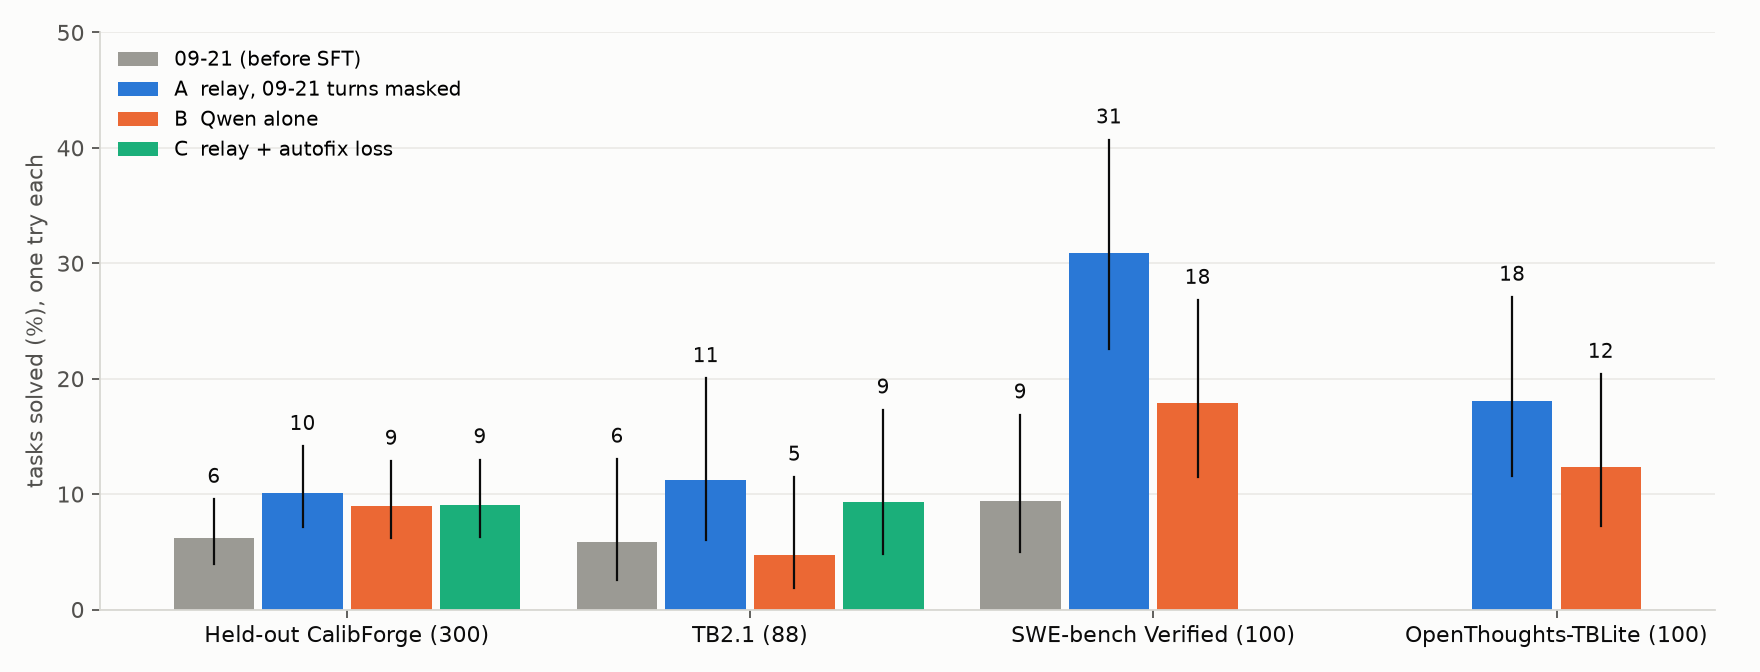
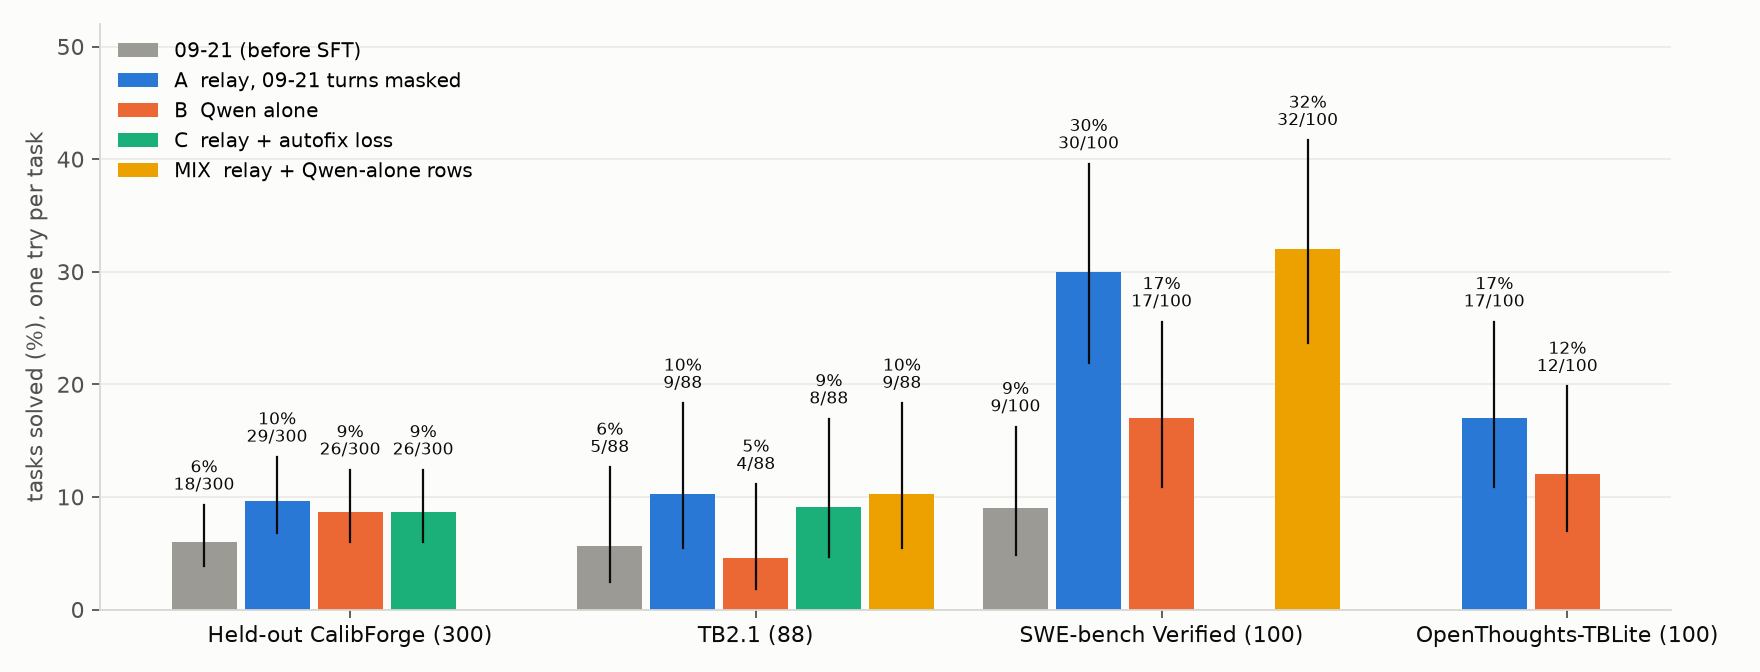
relay SFT gist: pass rates over all tasks (no verdict = fail), n/N labels on the figure

diff --git a/notes/artifacts/relay-sft-gist/make_figs.py b/notes/artifacts/relay-sft-gist/make_figs.py
@@ -5,9 +5,21 @@ sys.path.insert(0, '/e/project1/transfernetx/lee27/code/ota-sft-v2/data/relay/pi
 import matplotlib; matplotlib.use('Agg')
 import matplotlib.pyplot as plt
 from paired_eval import tb2_outcomes, rate
+import glob
+sys.path.insert(0, '/e/project1/transfernetx/lee27/code/ota-sft-v2/data/relay/pilot')
+import readout
 OUT = os.path.dirname(os.path.abspath(__file__))
 J = '/e/data1/mmlaion/lee27/experiments/tb2_jobs'
 res = json.load(open('/e/fscratch/reformo/lee27/experiments/relay/sft_v2/results.json'))
+def allrate(dirs):
+    n = k = 0
+    for d in dirs:
+        for f in glob.glob(d + '/*/result.json'):
+            r = json.load(open(f)); n += 1
+            k += ((((r.get('verifier_result') or {}).get('rewards') or {}).get('reward')) or 0) >= 1
+    lo, hi = readout.wilson(k, n)
+    return dict(n=n, passes=k, rate=k / n, ci95=[lo, hi])
+H = '/e/data1/mmlaion/lee27/experiments/relay_pilot_jobs'
 def sharded(p, m):
     o = {}
     for s in (0, 1): o.update(tb2_outcomes(f'{J}/{p}_6516_{m}_s{s}_20260928')[0])
@@ -16,9 +28,12 @@ def shard4(p):
     o = {}
     for s in range(4): o.update(tb2_outcomes(f'{J}/{p}_6516_MIX_s{s}_20260928')[0])
     return rate(o)
-data = {'Held-out CalibForge (300)': res['heldout'], 'TB2.1 (88)': {**res['tb2'], 'MIX': shard4('tb21')},
-        'SWE-bench Verified (100)': {**{m: sharded('swe', m) for m in ('0921', 'A', 'B')}, 'MIX': shard4('swe')},
-        'OpenThoughts-TBLite (100)': {m: sharded('tblite', m) for m in ('A', 'B')}}
+data = {'Held-out CalibForge (300)': {m: allrate([f'{H}/heldout6516_{m}_20260928_student_only']) for m in ('0921', 'A', 'B', 'C')},
+        'TB2.1 (88)': {**{m: allrate([f'{J}/tb21_6516_{m}_20260928']) for m in ('0921', 'A', 'B', 'C')},
+                       'MIX': allrate([f'{J}/tb21_6516_MIX_s{s}_20260928' for s in range(4)])},
+        'SWE-bench Verified (100)': {**{m: allrate([f'{J}/swe_6516_{m}_s{s}_20260928' for s in (0, 1)]) for m in ('0921', 'A', 'B')},
+                                     'MIX': allrate([f'{J}/swe_6516_MIX_s{s}_20260928' for s in range(4)])},
+        'OpenThoughts-TBLite (100)': {m: allrate([f'{J}/tblite_6516_{m}_s{s}_20260928' for s in (0, 1)]) for m in ('A', 'B')}}
 models = [('0921', '09-21 (before SFT)', '#9b9a94'), ('A', 'A  relay, 09-21 turns masked', '#2a78d6'),
           ('B', 'B  Qwen alone', '#eb6834'), ('C', 'C  relay + autofix loss', '#1baf7a'),
           ('MIX', 'MIX  relay + Qwen-alone rows', '#eda100')]
@@ -33,9 +48,9 @@ for i, (bench, d) in enumerate(data.items()):
         r = d[k]; x = i + (j - 2) * (w + 0.02)
         ax.bar(x, r['rate'] * 100, w, color=col, label=None if k in seen else lab, zorder=2); seen.add(k)
         ax.plot([x, x], [r['ci95'][0] * 100, r['ci95'][1] * 100], color=INK, lw=1, zorder=3)
-        ax.text(x, r['ci95'][1] * 100 + 1, f"{r['rate']*100:.0f}", ha='center', va='bottom', fontsize=9, color=INK)
+        ax.text(x, r['ci95'][1] * 100 + 1, f"{r['rate']*100:.0f}%\n{r['passes']}/{r['n']}", ha='center', va='bottom', fontsize=7.5, color=INK, linespacing=1.1)
 ax.set_xticks(range(len(data))); ax.set_xticklabels(list(data), color=INK)
-ax.set_ylabel('tasks solved (%), one try each'); ax.set_ylim(0, 50)
+ax.set_ylabel('tasks solved (%), one try per task'); ax.set_ylim(0, 52)
 ax.grid(axis='y', color='#ecebe7', zorder=0); ax.spines[['top', 'right']].set_visible(False)
 ax.legend(frameon=False, loc='upper left', fontsize=9)
 fig.tight_layout(); fig.savefig(f'{OUT}/fig1_results.png', dpi=160, facecolor=SURF)

diff --git a/notes/artifacts/relay-sft-gist/relay-sft-0921.md b/notes/artifacts/relay-sft-gist/relay-sft-0921.md
@@ -2,9 +2,9 @@
 
 **Training 09-21 on relay traces beats training it on Qwen-alone traces on all three agent benchmarks, most clearly on SWE-bench, and ties on held-out CalibForge.**
 
-- SWE-bench Verified: relay 31 % vs Qwen-alone 18 % vs 09-21 9 % (relay gains 13 tasks and loses 2 against Qwen-alone)
-- TB2.1 11 % vs 5 % and OpenThoughts-TBLite 18 % vs 12 %, the same direction; held-out CalibForge 10 % vs 9 %
-- Adding the Qwen-alone rows to the relay rows (twice the data) scores the same as relay alone (SWE-bench 34 %, TB2.1 11 %), so the gain comes from the relay rows
+- SWE-bench Verified: relay 30 % vs Qwen-alone 17 % vs 09-21 9 % (relay gains 13 tasks and loses 2 against Qwen-alone)
+- TB2.1 10 % vs 5 % and OpenThoughts-TBLite 17 % vs 12 %, the same direction; held-out CalibForge 10 % vs 9 %
+- Adding the Qwen-alone rows to the relay rows (twice the data) scores the same as relay alone (SWE-bench 32 %, TB2.1 10 %), so the gain comes from the relay rows
 - SFT fixed 09-21's reply format (the harness rejected 89 % of its turns, 15–20 % after SFT), and the models now run out of time because they write twice as many tokens
 
 **Outline**
@@ -23,13 +23,13 @@
 
 | | held-out CalibForge (300) | TB2.1 (88) | SWE-bench Verified (100) | OpenThoughts-TBLite (100) |
 |---|---|---|---|---|
-| 09-21, before SFT | 18 / 291 (6.2 %) | 5 / 85 (5.9 %) | 9 / 96 (9.4 %) | not run |
-| A, relay | **29 / 287 (10.1 %)** | **9 / 80 (11.3 %)** | **30 / 97 (30.9 %)** | **17 / 94 (18.1 %)** |
-| B, Qwen alone | 26 / 289 (9.0 %) | 4 / 85 (4.7 %) | 17 / 95 (17.9 %) | 12 / 97 (12.4 %) |
-| C, relay + autofix loss | 26 / 286 (9.1 %) | 8 / 86 (9.3 %) | not run | not run |
-| MIX, relay + Qwen-alone rows | not run | 9 / 79 (11.4 %) | 32 / 93 (34.4 %) | not run |
+| 09-21, before SFT | 18 / 300 (6.0 %) | 5 / 88 (5.7 %) | 9 / 100 (9.0 %) | not run |
+| A, relay | **29 / 300 (9.7 %)** | **9 / 88 (10.2 %)** | **30 / 100 (30.0 %)** | **17 / 100 (17.0 %)** |
+| B, Qwen alone | 26 / 300 (8.7 %) | 4 / 88 (4.5 %) | 17 / 100 (17.0 %) | 12 / 100 (12.0 %) |
+| C, relay + autofix loss | 26 / 300 (8.7 %) | 8 / 88 (9.1 %) | not run | not run |
+| MIX, relay + Qwen-alone rows | not run | 9 / 88 (10.2 %) | 32 / 100 (32.0 %) | not run |
 
-Solved / scored tasks, one try each. A task without a verdict (sandbox or tmux error) is left out of both numbers.
+Solved / all tasks, one try each. A task that ended without a verdict (sandbox or tmux error, 2–14 per run, see the table at the end) counts as a failure here, so no model gains from losing tasks to infrastructure. The comparisons below use only tasks both models scored.
 
 - **SWE-bench, same 93 tasks.** Relay gains 13 tasks and loses 2, +11.8 points (the range consistent with the data runs +4.3 to +19.4). Against 09-21 the relay arm gains 24 tasks and loses 4 (+21.3 points), the Qwen-alone arm 11 against 4 (+7.6).
 - **OpenThoughts-TBLite, same 92 tasks.** Relay gains 11 and loses 4, +7.6 points (+0.0 to +16.3).
@@ -95,4 +95,4 @@ One try per task; the last attempt counts (after any recovery pass). "Hit 30-min
 
 ---
 
-<sub>**Setup.** Base Grug Datakit 09-21 (the 09-21 import, router bias frozen). LR 3e-4, cosine to 10 % with 5 % warmup, 3 passes over the packed rows (147 steps for B, 246 for A and C, 393 for MIX), 16 × 65,536 on 4 Jupiter nodes, loss only on the rows' trained tokens (checked token for token against the cache the trainer reads). Evals at 65,536 input and 16,384 output tokens, Terminus-2, harbor 761fb516, one try per task, 16 concurrent per GH200 node for TB2.1, SWE-bench and TBLite (each served on its own node; per-task generation speed within 15 % across compared models) (the 09-24 Marin policy with only the token limits changed), 100 concurrent on one node for held-out CalibForge. TB2.1 is terminal-bench-2 @ 53ff2b8. Ranges are 95 % bootstrap intervals over the tasks both models scored; pass-rate bars show Wilson intervals. About 30 node-hours for training and the pre-registered evals.</sub>
+<sub>**Setup.** Base Grug Datakit 09-21 (the 09-21 import, router bias frozen). LR 3e-4, cosine to 10 % with 5 % warmup, 3 passes over the packed rows (147 steps for B, 246 for A and C, 393 for MIX), 16 × 65,536 on 4 Jupiter nodes, loss only on the rows' trained tokens (checked token for token against the cache the trainer reads). Evals at 65,536 input and 16,384 output tokens, Terminus-2, harbor 761fb516, one try per task, 16 concurrent per GH200 node for TB2.1, SWE-bench and TBLite (each served on its own node; per-task generation speed within 15 % across compared models) (the 09-24 Marin policy with only the token limits changed), 100 concurrent on one node for held-out CalibForge. TB2.1 is terminal-bench-2 @ 53ff2b8. Ranges are 95 % bootstrap intervals over the tasks both models scored; pass-rate bars count every task (no verdict = fail) and show Wilson intervals. About 30 node-hours for training and the pre-registered evals.</sub>
